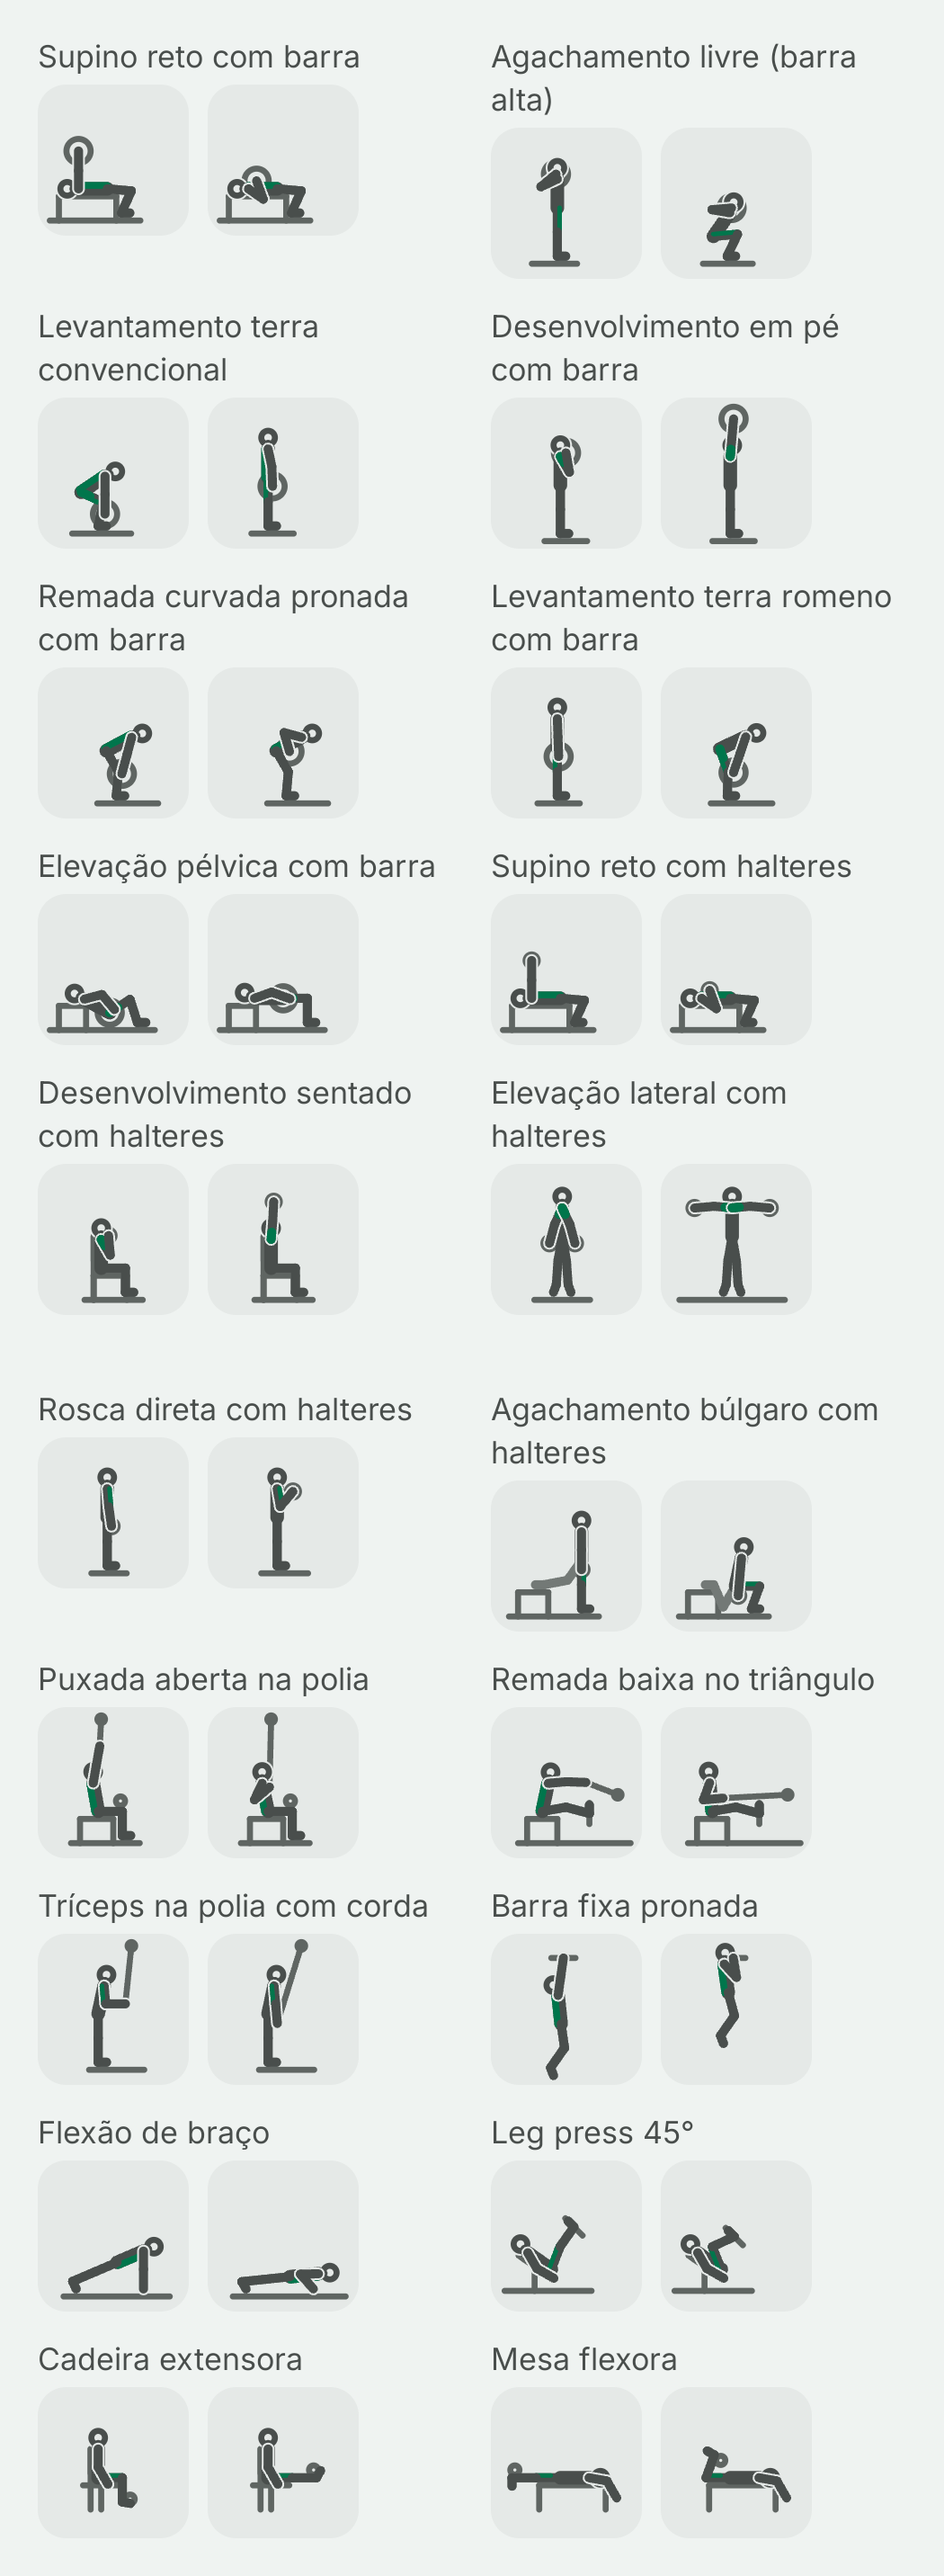
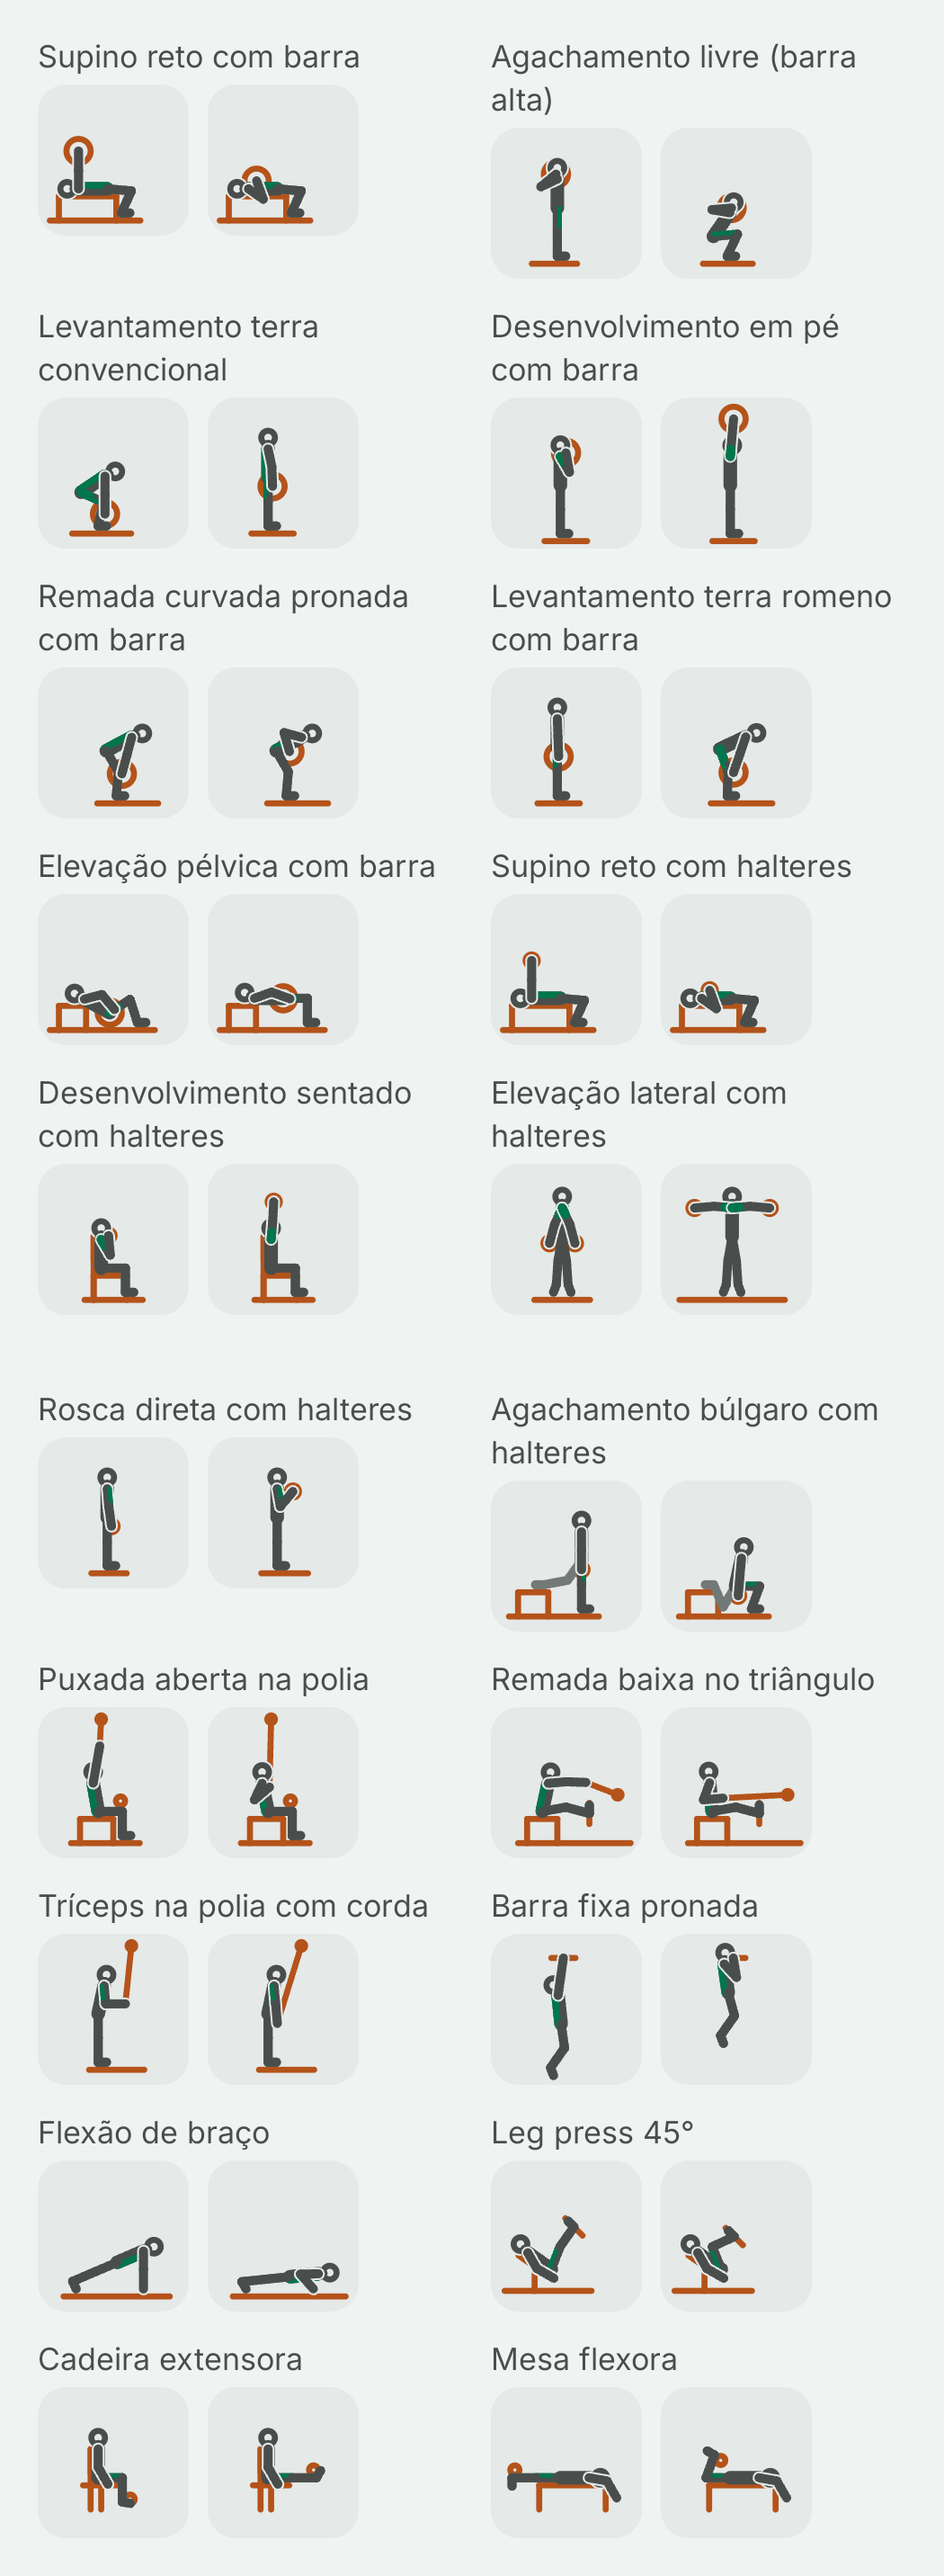
docs: pilot sheet recaptured with copper equipment

diff --git a/docs/superpowers/ROADMAP.md b/docs/superpowers/ROADMAP.md
@@ -211,7 +211,7 @@ As durações são estimativas para um desenvolvedor sozinho e servem para orden
 
 **Andamento (2026-10-30):** a fase se divide em 4A (biblioteca), 4B (rotinas) e 4M (download de mídia, só se houver mídia encomendada). A **4A está implementada e verificada** na branch `feat/phase4a-library`, a partir da `main` do fork em `739a800`; `compat-reviewer` SEGURO, `/code-review` com as correções aplicadas e CI verde ([41046481599](https://github.com/pedroyuuki/Mooscles/actions/runs/41046481599)); merge na `main` do fork em 2026-10-30, sem esperar o portão G1. Entregue: a aba Biblioteca nova (busca em inglês e pt-BR, filtros por músculo e equipamento, recentes, "Meus exercícios"), o detalhe do exercício com figura, mapa corporal, dicas de execução e resumo do histórico, o formulário de exercício personalizado (sem foto), o seletor do treino com os mesmos filtros e "Sobre o exercício" no treino ativo; os 287 exercícios com nome em pt-BR, anatomia e dicas. As figuras são o **piloto de 20 exercícios**. [Spec](specs/2026-10-29-phase4-library-routines-design.md) (com as [notas de implementação](specs/2026-10-29-phase4-library-routines-design.md#notas-de-implementação)), [plano da 4A](plans/2026-10-29-phase4a-library.md), [spike do mapa](reports/2026-10-29-phase4a-spike-mapa.md), [folha do piloto](reports/2026-10-30-phase4a-folha-piloto.md), [crítica](reports/2026-10-30-phase4a-critica-biblioteca.md) e [verificação](reports/2026-10-30-phase4a-verificacao.md). Nenhum fluxo medido passa do orçamento de toques e o APK cresceu 450.168 bytes (limite da 4A: 629.146). Não verificado: iPhone, TalkBack e 120 Hz num aparelho físico, a bateria da figura do detalhe, a qualidade das figuras e dicas para quem treina e a release com a chave original.
 
-- **Portão G1 (figuras próprias):** a folha do piloto foi entregue ao dono em 2026-10-30 e a resposta está **pendente**. Aprovado: lotes de figuras por família (Task L do plano, cerca de 50 exercícios cada, em branch própria, podendo correr durante a 4B). Reprovado: o piloto sai do produto e o ícone do equipamento fica (Task R), e a encomenda de figuras vai para uma fase futura.
+- **Portão G1 (figuras próprias):** a folha do piloto foi entregue ao dono em 2026-10-30 e ele a **aprovou em 2026-10-30**, com uma mudança de cor: o equipamento das figuras passou a cobre (laranja), para se destacar do corpo e do músculo (`cobre47` no claro, `cobre64` no escuro; [spec](specs/2026-10-29-phase4-library-routines-design.md)); a folha foi refeita. Os lotes de figuras seguem. Aprovado: lotes de figuras por família (Task L do plano, cerca de 50 exercícios cada, em branch própria, podendo correr durante a 4B). Reprovado: o piloto sai do produto e o ícone do equipamento fica (Task R), e a encomenda de figuras vai para uma fase futura.
 - **Próximo: 4B (rotinas).** Aba Treinar, pastas, editor de rotina com arrastar e soltar, aquecimento planejado e schema v6, linha de alvo no card do treino, foto do exercício personalizado (o formulário passa a ficar aberto até o detalhe abrir) e seleção múltipla no seletor. Leva um plano próprio, a partir desta spec.
 
 ### Fase 5 — Progresso e histórico · v2.2 · 2–4 semanas
@@ -301,7 +301,7 @@ Respondidas em 2026-10-27: sem Google Play por enquanto e app gratuito (ver Deci
 | 1 | concluída: 1A e 1B na `main` do fork (2026-10-27 e 2026-10-28), sem release | [base multiplataforma](specs/2026-10-27-phase1-shared-base-design.md) | [1A](plans/2026-10-27-phase1a-toolchain-room.md) · [1B](plans/2026-10-27-phase1b-shared-module.md) | — |
 | 2 | concluída: implementada e verificada em 2026-10-28 ([verificação](reports/2026-10-28-phase2-verificacao.md), [spike](reports/2026-10-28-phase2-tnum-spike.md), [crítica](reports/2026-10-28-phase2-critica-configuracoes.md)), com merge na `main` do fork em `4f2911c`; sem release (entra no PR final, ver a [v1.5.0](releases/v1.5.0.md)) | [design system](specs/2026-10-27-phase2-design-system-design.md) · [direção visual](https://claude.ai/artifact/Y4pTUbYqTcCCrznT74raBM) | [design system](plans/2026-10-27-phase2-design-system.md) | — |
 | 3 | concluída: implementada e verificada em 2026-10-29 ([verificação](reports/2026-10-29-phase3-verificacao.md), com o [adendo da revisão final](reports/2026-10-29-phase3-verificacao.md#adendo-2026-10-29-revisão-final); [spikes](reports/2026-10-29-phase3-spikes.md), [crítica](reports/2026-10-29-phase3-critica-treino.md)); `compat-reviewer` SEGURO e `/code-review` com as correções aplicadas; merge na `main` do fork em `2359ab6`, CI verde ([40959862910](https://github.com/pedroyuuki/Mooscles/actions/runs/40959862910)); sem release (entra no PR final) | [treino ativo](specs/2026-10-29-phase3-active-workout-design.md) | [treino ativo](plans/2026-10-29-phase3-active-workout.md) | [v1.5.0](releases/v1.5.0.md): release pendente da chave original |
-| 4 | 4A concluída: implementada e verificada em 2026-10-30 ([verificação](reports/2026-10-30-phase4a-verificacao.md), [spike do mapa](reports/2026-10-29-phase4a-spike-mapa.md), [folha do piloto](reports/2026-10-30-phase4a-folha-piloto.md), [crítica](reports/2026-10-30-phase4a-critica-biblioteca.md)), merge na `main` do fork pendente do `/code-review` e do CI; G1 (figuras) pendente do dono; 4B (rotinas) não iniciada; sem release | [biblioteca e rotinas](specs/2026-10-29-phase4-library-routines-design.md) | [4A](plans/2026-10-29-phase4a-library.md) | — |
+| 4 | 4A concluída: implementada e verificada em 2026-10-30 ([verificação](reports/2026-10-30-phase4a-verificacao.md), [spike do mapa](reports/2026-10-29-phase4a-spike-mapa.md), [folha do piloto](reports/2026-10-30-phase4a-folha-piloto.md), [crítica](reports/2026-10-30-phase4a-critica-biblioteca.md)), merge na `main` do fork pendente do `/code-review` e do CI; G1 (figuras) aprovado pelo dono em 2026-10-30, com o equipamento em cobre; 4B (rotinas) não iniciada; sem release | [biblioteca e rotinas](specs/2026-10-29-phase4-library-routines-design.md) | [4A](plans/2026-10-29-phase4a-library.md) | — |
 | 5 | não iniciada | — | — | — |
 | 6 | não iniciada | — | — | — |
 | 7 | não iniciada | — | — | — |

diff --git a/docs/superpowers/specs/2026-10-29-phase4-library-routines-design.md b/docs/superpowers/specs/2026-10-29-phase4-library-routines-design.md
@@ -126,6 +126,7 @@ A free-exercise-db pode servir, com cuidado, de referência visual de quem desen
 
 - Piloto (spike S1): `barbell_bench_flat`, `barbell_back_squat_high_bar`, `barbell_deadlift_conventional`, `barbell_overhead_press`, `barbell_row_overhand`, `barbell_deadlift_romanian`, `barbell_hip_thrust`, `dumbbell_bench_flat`, `dumbbell_press_seated`, `dumbbell_raise_lateral`, `dumbbell_curl_standing`, `dumbbell_squat_bulgarian`, `cable_lat_pulldown_wide`, `cable_row_close_neutral`, `cable_triceps_pushdown_rope`, `bodyweight_pull_up`, `bodyweight_push_up`, `plate_leg_press_45`, `selectorized_leg_extension`, `selectorized_leg_curl_lying` (todos com o prefixo `catalog_`). Cobre barra, halter, polia, peso corporal e as duas famílias de máquina, em pé, deitado, sentado e pendurado; kettlebell, Smith e "Outro" entram nos lotes.
 - **Portão G1:** uma folha de capturas com os 20 (quadros A e B, nos dois temas, a 64 dp e no tamanho do detalhe), `critique-screen` sem achado alto de legibilidade, e o dono aprova a folha (pergunta 1). Se reprovar, as figuras não entram: o detalhe e a lista ficam com o ícone do equipamento, e a fase segue com o resto; a encomenda de ilustrações e a 4M (D10) passam para uma fase futura, e o piloto sai do produto (chamada do controlador, 2026-10-29, ver D2). *Por quê:* a fase 4 não pode esperar uma encomenda.
+- **(2026-10-30, portão G1)** O dono aprovou o piloto de 20 exercícios com uma mudança: o equipamento (barra, anilhas, máquinas, bancos e cabos) passa a ser **cobre**, um laranja, para se destacar do corpo cinza e do músculo verde; antes era `text.tertiary` (D3). O controlador comparou os candidatos em contraste e em separação para daltônicos e decidiu: nova primitiva `cobre` (`cobre47` = `#B4531A` no tema claro, `cobre64` = `#E8813E` no escuro) e o token `equipment` em `MoosclesFigureColors`. Nos quatro fundos de página e de peça, o claro tem no mínimo 4,09:1 e o escuro 5,8:1; sob simulação de deuteranopia mantém ΔE de cerca de 38 a 39 do verde do destaque. O latão ficou de fora porque já significa recorde pessoal, e a brasa porque significa perigo (e é a pior na deuteranopia). A folha do piloto foi refeita com o equipamento em cobre. Os lotes (Task L) seguem.
 - Depois do G1, os lotes seguem por equipamento (barra, halter, polia, peso corporal, máquinas, kettlebell, Smith), cada um com a sua folha de capturas no relatório. São só dados e testes, sem schema; podem entrar em commits próprios durante a 4A e a 4B.
 - **Meta da fase:** as 287 entradas do catálogo com figura **se o G1 for aprovado** (lotes de cerca de 50, cada um entra na `main` do fork); caso contrário, o ícone do equipamento. **Chamada do controlador (2026-10-29):** o compromisso de conclusão está em D21.
 

diff --git a/docs/superpowers/reports/2026-10-30-phase4a-folha-piloto.md b/docs/superpowers/reports/2026-10-30-phase4a-folha-piloto.md
@@ -136,3 +136,7 @@ O custo seria encomendar e revisar 287 exercícios, com a etapa de download (4M)
 ## Pergunta do G1
 
 **Aprova a folha do piloto?** Com aprovação, os lotes seguem por equipamento até os 287; sem aprovação, as figuras saem do produto e fica o ícone do equipamento.
+
+## Refeita com o equipamento em cobre (2026-10-30, depois do G1)
+
+O dono aprovou o piloto com uma mudança: o equipamento (barra, anilhas, máquinas, bancos e cabos) passou de `text.tertiary` para cobre (`cobre47` no tema claro, `cobre64` no escuro; ver a nota do G1 na [spec](../specs/2026-10-29-phase4-library-routines-design.md)). A folha foi capturada de novo com o mesmo `PilotSheetCaptureTest`, no mesmo emulador, e os quatro PNGs de `2026-10-29-phase4a-verificacao/` foram trocados. As poses, as densidades e o resto não mudaram; só a cor do equipamento.
